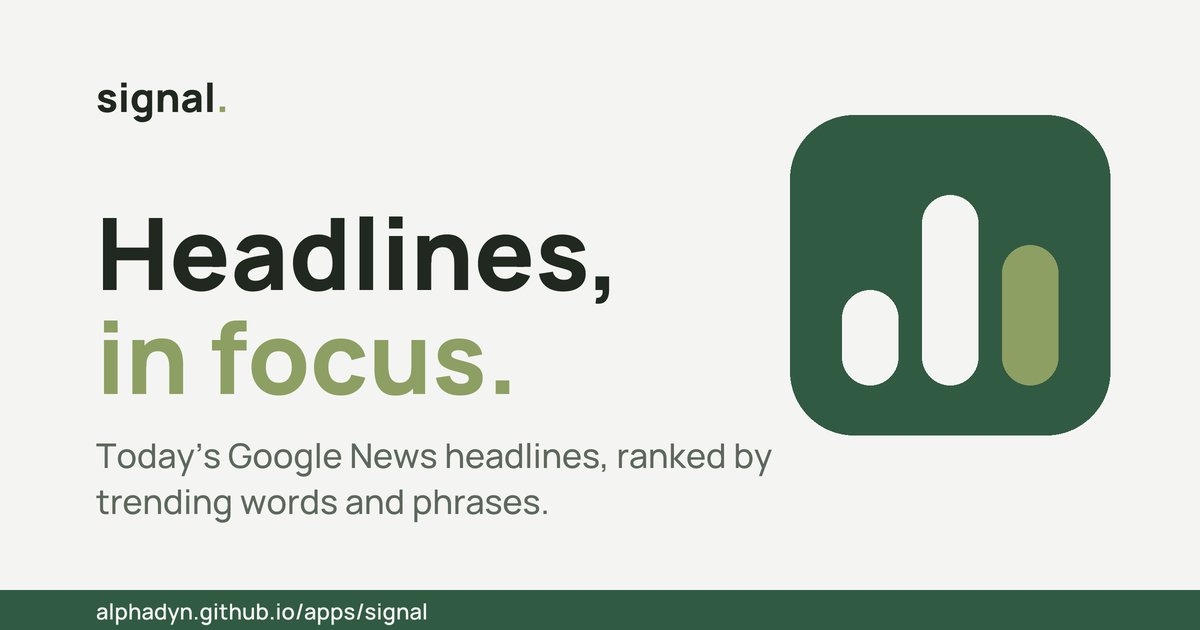
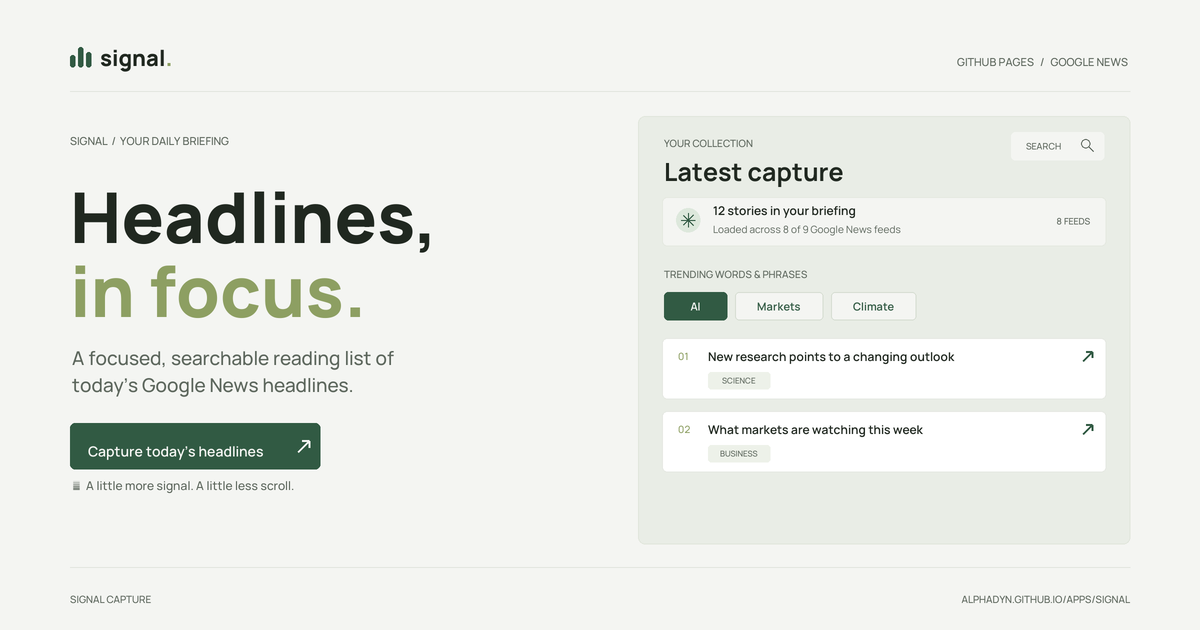
Redesign Signal social link preview

diff --git a/signal/index.html b/signal/index.html
@@ -15,17 +15,17 @@
   <meta property="og:url" content="https://alphadyn.github.io/apps/signal/">
   <meta property="og:title" content="Signal — Headlines, in focus">
   <meta property="og:description" content="Today’s Google News headlines, ranked by trending words and phrases. Search, filter, and save them as JSON.">
-  <meta property="og:image" content="https://alphadyn.github.io/apps/signal/assets/social-preview.png?v=3">
-  <meta property="og:image:secure_url" content="https://alphadyn.github.io/apps/signal/assets/social-preview.png?v=3">
+  <meta property="og:image" content="https://alphadyn.github.io/apps/signal/assets/social-preview.png?v=4">
+  <meta property="og:image:secure_url" content="https://alphadyn.github.io/apps/signal/assets/social-preview.png?v=4">
   <meta property="og:image:type" content="image/png">
   <meta property="og:image:width" content="1200">
   <meta property="og:image:height" content="630">
-  <meta property="og:image:alt" content="Signal: Headlines, in focus.">
+  <meta property="og:image:alt" content="Signal’s daily news briefing, with trending topics and story cards.">
   <meta name="twitter:card" content="summary_large_image">
   <meta name="twitter:title" content="Signal — Headlines, in focus">
   <meta name="twitter:description" content="Today’s Google News headlines, ranked by trending words and phrases. Search, filter, and save them as JSON.">
-  <meta name="twitter:image" content="https://alphadyn.github.io/apps/signal/assets/social-preview.png?v=3">
-  <meta name="twitter:image:alt" content="Signal: Headlines, in focus.">
+  <meta name="twitter:image" content="https://alphadyn.github.io/apps/signal/assets/social-preview.png?v=4">
+  <meta name="twitter:image:alt" content="Signal’s daily news briefing, with trending topics and story cards.">
   <link rel="preconnect" href="https://fonts.googleapis.com">
   <link rel="preconnect" href="https://fonts.gstatic.com" crossorigin>
   <link href="https://fonts.googleapis.com/css2?family=DM+Mono:wght@400;500&family=DM+Sans:wght@400;500;600;700&family=Manrope:wght@400;500;600;700;800&display=swap" rel="stylesheet">

diff --git a/signal/build_preview.py b/signal/build_preview.py
@@ -1,5 +1,5 @@
 #!/usr/bin/env python3
-"""Render assets/social-preview.png, the 1200x630 link preview used for texts and social shares."""
+"""Render the 1200x630 app-themed link preview used for texts and social shares."""
 
 from pathlib import Path
 
@@ -28,28 +28,81 @@ def render() -> Image.Image:
     def text(xy, value, face, fill, anchor="ls"):
         draw.text((xy[0] * SCALE, xy[1] * SCALE), value, font=face, fill=fill, anchor=anchor)
 
-    # Brand tile on the right
-    rounded((790, 115, 1110, 435), 64, fill=GREEN)
-    for x, top, color in [(842, 290, BG), (922, 195, BG), (1002, 245, SAGE)]:
-        rounded((x, top, x + 56, 385), 28, fill=color)
+    def arrow_up_right(x, y, size, color):
+        points = ((x, y + size), (x + size, y), (x + size * 0.38, y))
+        draw.line([(px * SCALE, py * SCALE) for px, py in points], fill=color, width=2 * SCALE)
+        draw.line((((x + size) * SCALE, y * SCALE), ((x + size) * SCALE, (y + size * 0.62) * SCALE)),
+                  fill=color, width=2 * SCALE)
 
-    # Small wordmark
-    wordmark = font(40, b"ExtraBold")
-    text((96, 112), "signal", wordmark, INK)
-    text((96 + draw.textlength("signal", font=wordmark) / SCALE, 112), ".", wordmark, SAGE)
+    # App header and wordmark
+    for x, height in ((70, 12), (78, 20), (86, 15)):
+        rounded((x, 47 + 20 - height, x + 5, 67), 3, fill=GREEN)
+    wordmark = font(22, b"ExtraBold")
+    text((100, 66), "signal", wordmark, INK, "ls")
+    text((100 + draw.textlength("signal", font=wordmark) / SCALE, 66), ".", wordmark, SAGE, "ls")
+    text((1128, 66), "GITHUB PAGES   /   GOOGLE NEWS", font(11, b"Medium"), GREY, "rs")
+    draw.line((70 * SCALE, 91 * SCALE, 1130 * SCALE, 91 * SCALE), fill=(226, 229, 223), width=1 * SCALE)
 
-    # Title and description
-    title = font(100, b"ExtraBold")
-    text((96, 290), "Headlines,", title, INK)
-    text((96, 394), "in focus.", title, SAGE)
-    body = font(34, b"Medium")
-    text((96, 468), "Today’s Google News headlines, ranked by", body, GREY)
-    text((96, 514), "trending words and phrases.", body, GREY)
+    # Hero copy mirrors the live page.
+    text((70, 145), "SIGNAL  /  YOUR DAILY BRIEFING", font(11, b"Medium"), GREY)
+    title = font(70, b"ExtraBold")
+    text((70, 243), "Headlines,", title, INK)
+    text((70, 317), "in focus.", title, SAGE)
+    body = font(19, b"Medium")
+    text((72, 365), "A focused, searchable reading list of", body, GREY)
+    text((72, 392), "today’s Google News headlines.", body, GREY)
+
+    rounded((70, 423, 320, 469), 5, fill=GREEN)
+    text((88, 451), "Capture today’s headlines", font(14, b"SemiBold"), BG, "lm")
+    arrow_up_right(298, 441, 11, BG)
+    text((72, 490), "✳  A little more signal. A little less scroll.", font(12, b"Medium"), GREY)
+
+    # A compact mockup of the actual collection and trends UI.
+    rounded((638, 116, 1130, 544), 7, fill=(233, 237, 230), outline=(225, 230, 220), width=1 * SCALE)
+    text((664, 147), "YOUR COLLECTION", font(10, b"Medium"), GREY)
+    text((664, 181), "Latest capture", font(25, b"Bold"), INK)
+    rounded((1011, 132, 1104, 160), 4, fill=(244, 245, 242))
+    text((1044, 146), "SEARCH", font(9, b"Medium"), GREY, "mm")
+    draw.ellipse((1081 * SCALE, 139 * SCALE, 1090 * SCALE, 148 * SCALE), outline=GREY, width=1 * SCALE)
+    draw.line((1088 * SCALE, 146 * SCALE, 1093 * SCALE, 151 * SCALE), fill=GREY, width=1 * SCALE)
+
+    rounded((662, 197, 1106, 246), 5, fill=(244, 245, 242), outline=(229, 233, 225), width=1 * SCALE)
+    rounded((676, 208, 700, 232), 12, fill=(221, 232, 220))
+    draw.line((688 * SCALE, 213 * SCALE, 688 * SCALE, 227 * SCALE), fill=GREEN, width=1 * SCALE)
+    draw.line((681 * SCALE, 220 * SCALE, 695 * SCALE, 220 * SCALE), fill=GREEN, width=1 * SCALE)
+    draw.line((683 * SCALE, 215 * SCALE, 693 * SCALE, 225 * SCALE), fill=GREEN, width=1 * SCALE)
+    draw.line((693 * SCALE, 215 * SCALE, 683 * SCALE, 225 * SCALE), fill=GREEN, width=1 * SCALE)
+    text((713, 215), "12 stories in your briefing", font(12, b"SemiBold"), INK)
+    text((713, 233), "Loaded across 8 of 9 Google News feeds", font(10, b"Regular"), GREY)
+    text((1090, 221), "8 FEEDS", font(9, b"Medium"), GREY, "rm")
+
+    text((664, 278), "TRENDING WORDS & PHRASES", font(10, b"Medium"), GREY)
+    for box, label, active in (
+        ((664, 292, 727, 320), "AI", True),
+        ((735, 292, 823, 320), "Markets", False),
+        ((831, 292, 916, 320), "Climate", False),
+    ):
+        rounded(box, 4, fill=GREEN if active else (244, 245, 242),
+                outline=GREEN if active else (214, 221, 210), width=1 * SCALE)
+        text(((box[0] + box[2]) / 2, (box[1] + box[3]) / 2), label,
+             font(11, b"SemiBold"), BG if active else GREEN, "mm")
+
+    for y, number, heading, section in (
+        (338, "01", "New research points to a changing outlook", "SCIENCE"),
+        (411, "02", "What markets are watching this week", "BUSINESS"),
+    ):
+        rounded((662, y, 1106, y + 61), 5, fill=(255, 255, 255), outline=(230, 233, 227), width=1 * SCALE)
+        text((678, y + 22), number, font(10, b"Medium"), SAGE)
+        text((708, y + 23), heading, font(12, b"SemiBold"), INK)
+        rounded((708, y + 34, 770, y + 51), 3, fill=(237, 241, 233))
+        text((739, y + 42), section, font(8, b"Medium"), GREY, "mm")
+        arrow_up_right(1083, y + 14, 9, GREEN)
 
     # Domain footer
-    rounded((0, 590, 1200, 630), 0, fill=GREEN)
-    text((96, 611), "alphadyn.github.io/apps/signal", font(22, b"SemiBold"), BG, "lm")
-    return image.resize((1200, 630), Image.LANCZOS)
+    draw.line((70 * SCALE, 567 * SCALE, 1130 * SCALE, 567 * SCALE), fill=(226, 229, 223), width=1 * SCALE)
+    text((70, 599), "SIGNAL CAPTURE", font(10, b"Medium"), GREY, "lm")
+    text((1130, 599), "ALPHADYN.GITHUB.IO/APPS/SIGNAL", font(10, b"Medium"), GREY, "rm")
+    return image.resize((1200, 630), Image.Resampling.LANCZOS)
 
 
 if __name__ == "__main__":
